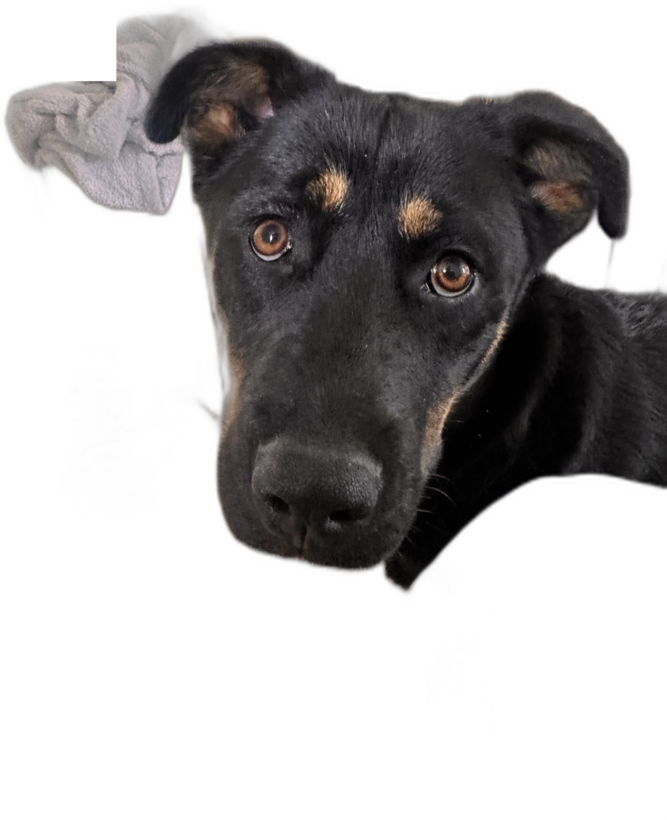
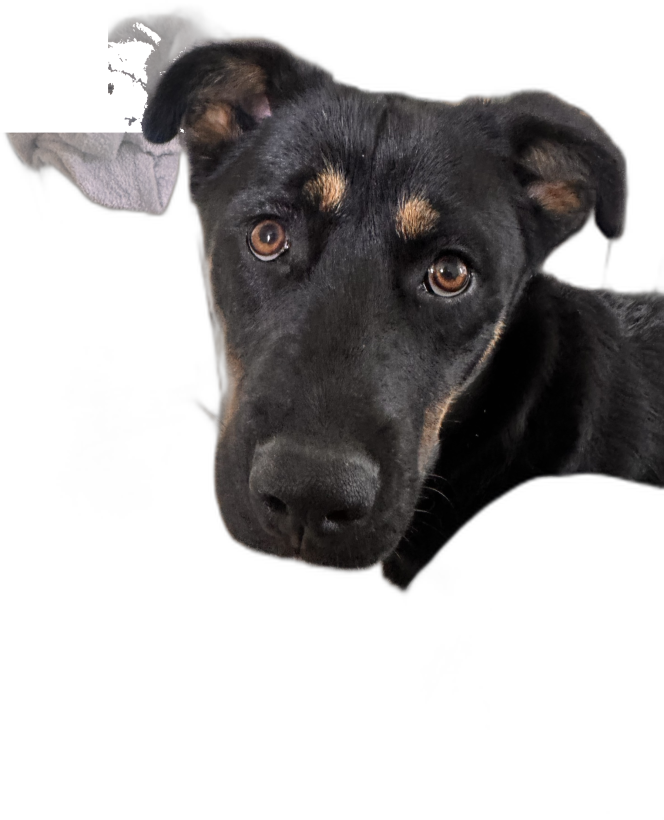
Clean dog cutout, objects come up once per shuffled cycle, drop the drawn dog
Claude-Session: https://claude.ai/code/session_01RgSjx2aHxjvpdiiD5sWrny

diff --git a/hotdog-flip.html b/hotdog-flip.html
@@ -271,7 +271,6 @@ canvas { display: block; width: 100%; height: 100%; }
   // sc scales the whole object; tops lists its landable surfaces in local units (default: the top edge, y = 0)
   const KINDS = [
     { id: 'deer', name: 'the deer', hw: 70, h: 178, sc: 1.25, tops: [{ x0: -78, x1: 56, y: 0 }] },
-    { id: 'dog', name: 'the dog', hw: 68, h: 124, sc: 1.3, tops: [{ x0: -66, x1: 64, y: 0 }] },
     { id: 'chair', name: 'the chair', hw: 60, h: 170, sc: 1.6, tops: [{ x0: -72, x1: 34, y: 72 }] },
     { id: 'hand', name: 'the hand', hw: 72, h: 140, sc: 1.3, tops: [{ x0: -96, x1: 44, y: 0 }] },
     { id: 'toaster', name: 'the toaster', hw: 44, h: 96, sc: 2 },
@@ -312,6 +311,7 @@ canvas { display: block; width: 100%; height: 100%; }
       if (run >= 0) close(maxY + 1);
     }
     Object.assign(k, { image: img, sx: minX, sy: minY, bw, bh, cols, tops: cols.map(c => ({ x0: c.x0, x1: c.x1, y: c.top })), ready: true });
+    if (PHOTOS.includes(k) && queue.length) queue.splice(Math.floor(Math.random() * (queue.length + 1)), 0, k);
     return true;
   }
   function loadPhotos() {
@@ -345,10 +345,11 @@ canvas { display: block; width: 100%; height: 100%; }
       case 'fork': return [poly([[-hw, 0], [hw, 0], [hw, 44], [-hw, 44]]), poly([[-3, 44], [3, 44], [3, h - 26], [-3, h - 26]]), poly([[-9, h - 30], [9, h - 30], [9, h], [-9, h]])];
     }
   }
+  let queue = [];
   function makeTarget(prev) {
-    const ready = PHOTOS.filter(k => k.ready);
-    const pool = [...ready, ...KINDS].filter(k => k !== prev);
-    const k = pool[Math.floor(Math.random() * pool.length)];
+    // every object comes up once, in a shuffled order, before any repeats
+    if (!queue.length) { queue = [...PHOTOS.filter(k => k.ready), ...KINDS]; for (let i = queue.length - 1; i > 0; i--) { const j = Math.floor(Math.random() * (i + 1)); [queue[i], queue[j]] = [queue[j], queue[i]]; } }
+    const k = queue.pop();
     const seed = Math.floor(Math.random() * 1000);
     const tg = k.cols ? { k, hw: k.bw / 2, h: k.bh, sc: k.w / k.bw, seed } : { k, hw: k.hw, h: k.h, sc: k.sc || 1, seed };
     Object.assign(tg, { phase: Math.random() * 6.28, enter: 0, drift: k.drift || 0, bob: k.bob || 7, sway: k.sway || .03 });
@@ -1172,6 +1173,7 @@ canvas { display: block; width: 100%; height: 100%; }
   // backdrop behind the start card: a sausage dangling from chopsticks over the pan
   resize();
   target = makeTarget(null); target.bx = 700; target.by = Math.min(240, 560 - target.h * target.sc); target.enter = 1;
+  queue = [];   // the start-screen object is just scenery; the first round starts a full cycle
   newSausage(); chop.mode = 'hold';
   requestAnimationFrame(frame);
 })();
